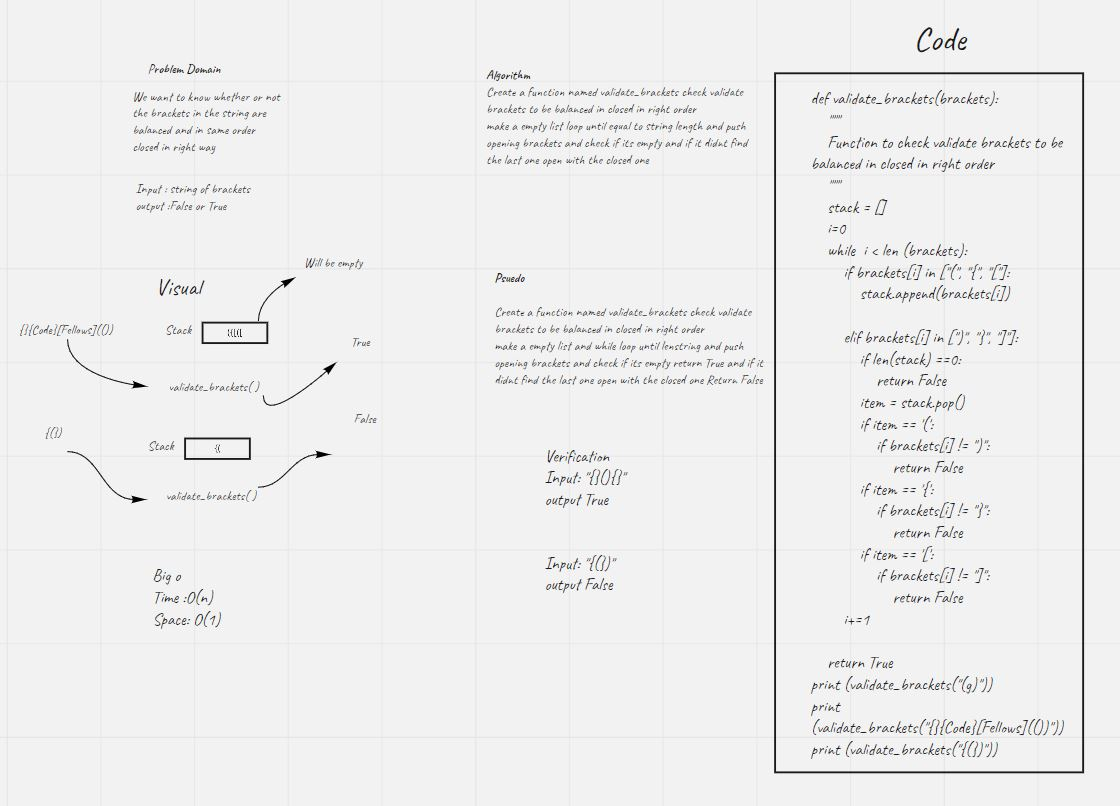
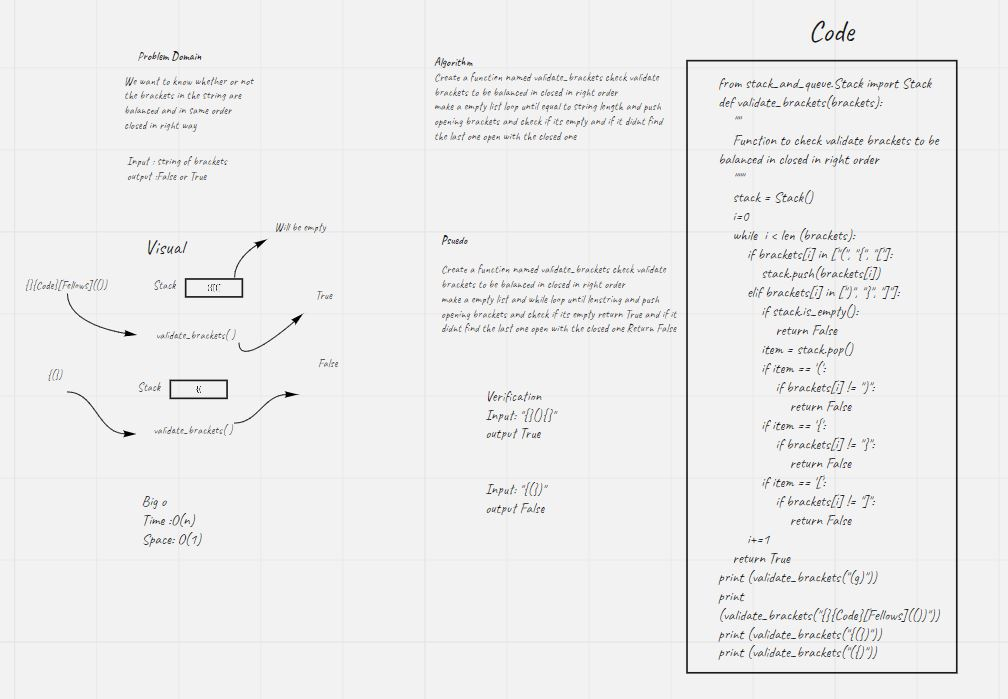
done

diff --git a/python/code_challenges/stack-and-queue/stack_and_queue/validate_brackets.py b/python/code_challenges/stack-and-queue/stack_and_queue/validate_brackets.py
@@ -34,6 +34,8 @@ print (validate_brackets("(g)"))
 print (validate_brackets("{}{Code}[Fellows](())"))
 
 print (validate_brackets("{(})"))
+print (validate_brackets("({)"))
+
 
 
 
